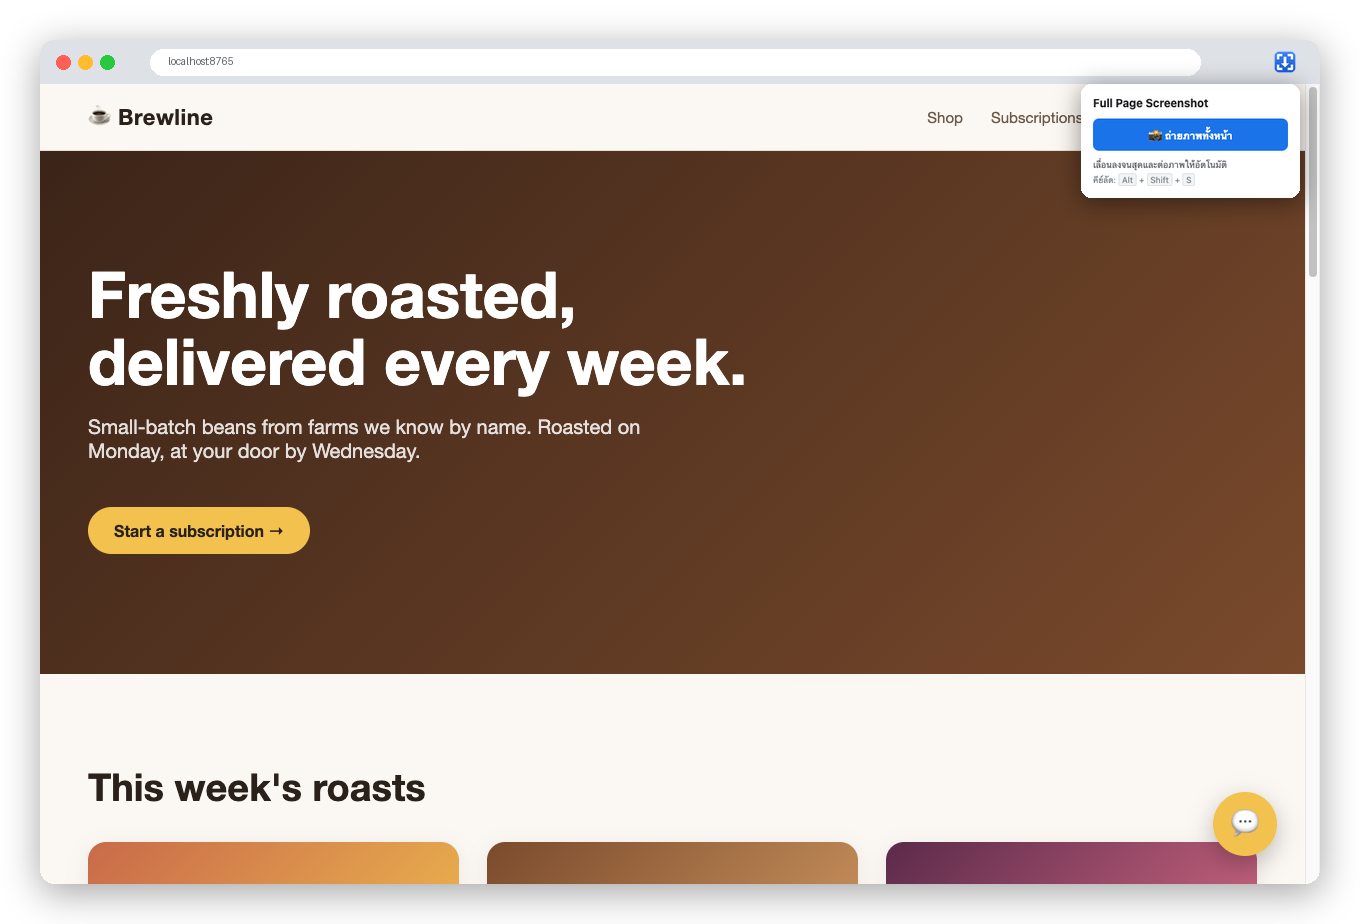
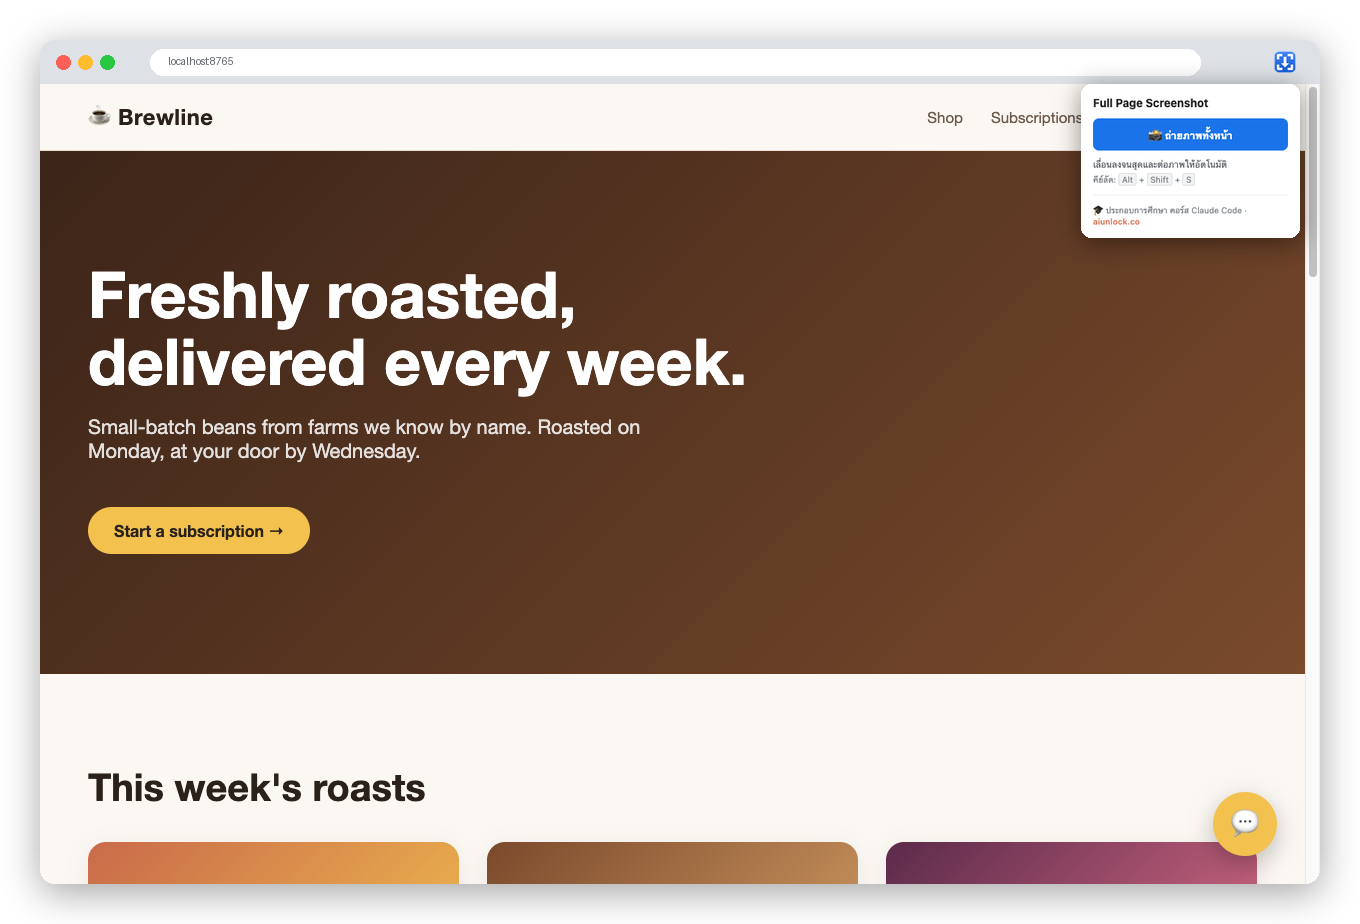
Add aiunlock.co credit link to popup
Retake popup and hero screenshots to match.

Changed region(s): [[0.7721, 0.2121, 0.9574, 0.2727]]

diff --git a/popup.html b/popup.html
@@ -10,6 +10,10 @@
   <button id="captureBtn" type="button">📸 ถ่ายภาพทั้งหน้า</button>
   <p id="status" role="status" aria-live="polite">เลื่อนลงจนสุดและต่อภาพให้อัตโนมัติ</p>
   <p class="hint">คีย์ลัด: <kbd>Alt</kbd> + <kbd>Shift</kbd> + <kbd>S</kbd></p>
+  <footer class="credit">
+    🎓 ประกอบการศึกษา คอร์ส Claude Code ·
+    <a href="https://aiunlock.co" target="_blank" rel="noopener noreferrer">aiunlock.co</a>
+  </footer>
   <script src="popup.js"></script>
 </body>
 </html>

diff --git a/popup.css b/popup.css
@@ -23,6 +23,16 @@ button:disabled { background: #9aa0a6; cursor: wait; }
 #status { font-size: 12px; color: #5f6368; margin: 10px 0 4px; }
 #status.error { color: #d93025; }
 .hint { font-size: 11px; color: #80868b; margin: 0; }
+.credit {
+  margin-top: 12px;
+  padding-top: 10px;
+  border-top: 1px solid #e8eaed;
+  font-size: 11px;
+  color: #80868b;
+}
+.credit a { color: #d97757; font-weight: 600; text-decoration: none; }
+.credit a:hover { text-decoration: underline; }
+.credit a:focus-visible { outline: 2px solid #8ab4f8; outline-offset: 2px; border-radius: 2px; }
 kbd {
   font-family: inherit;
   padding: 1px 4px;
